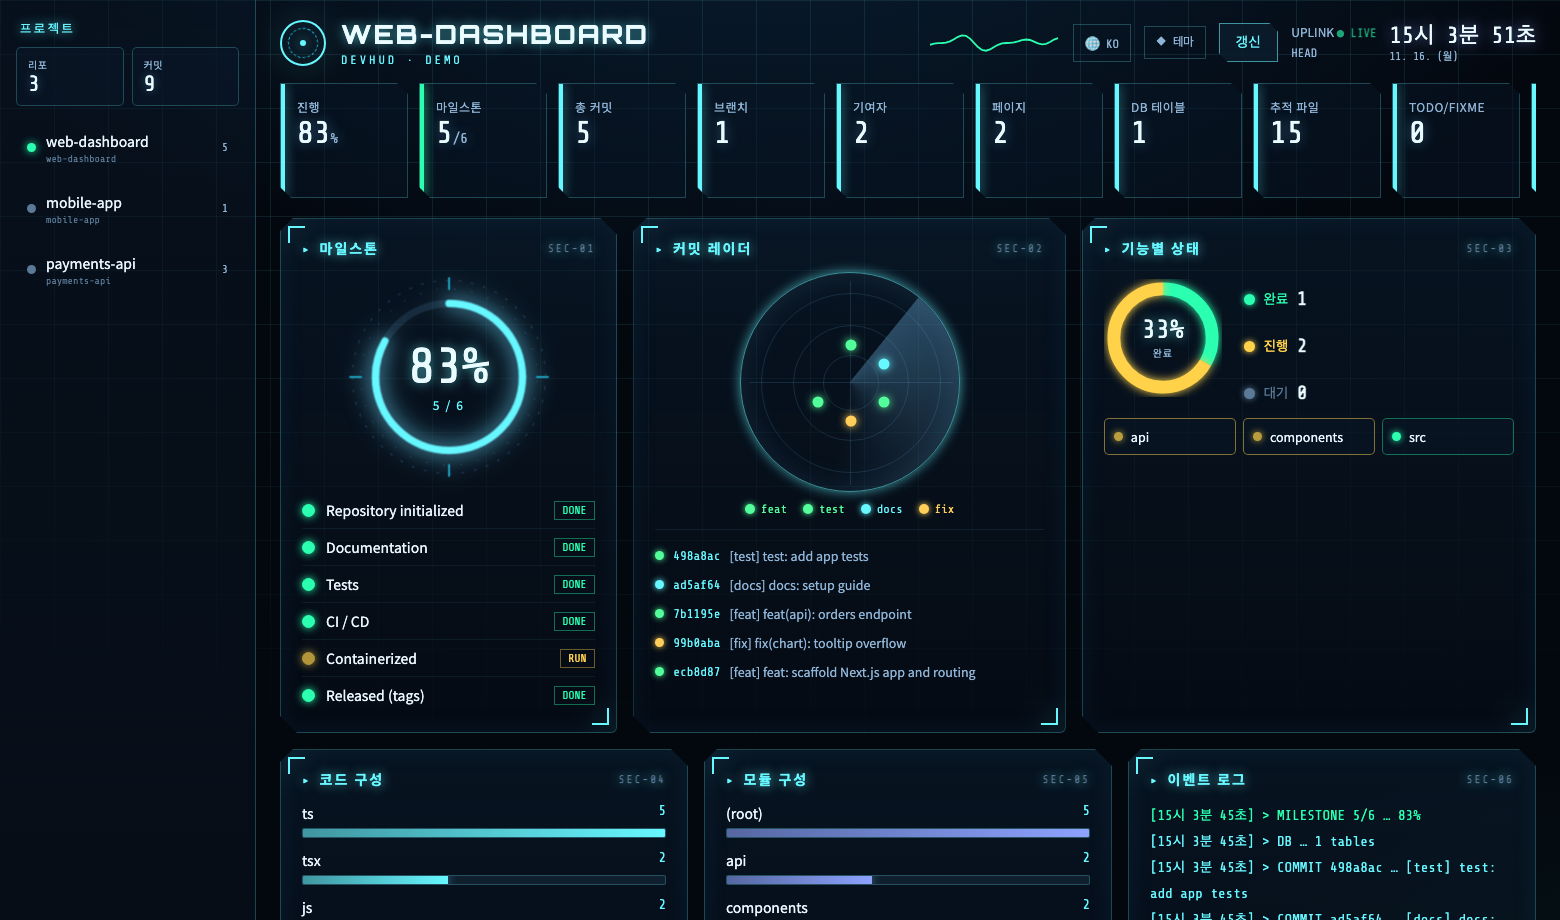
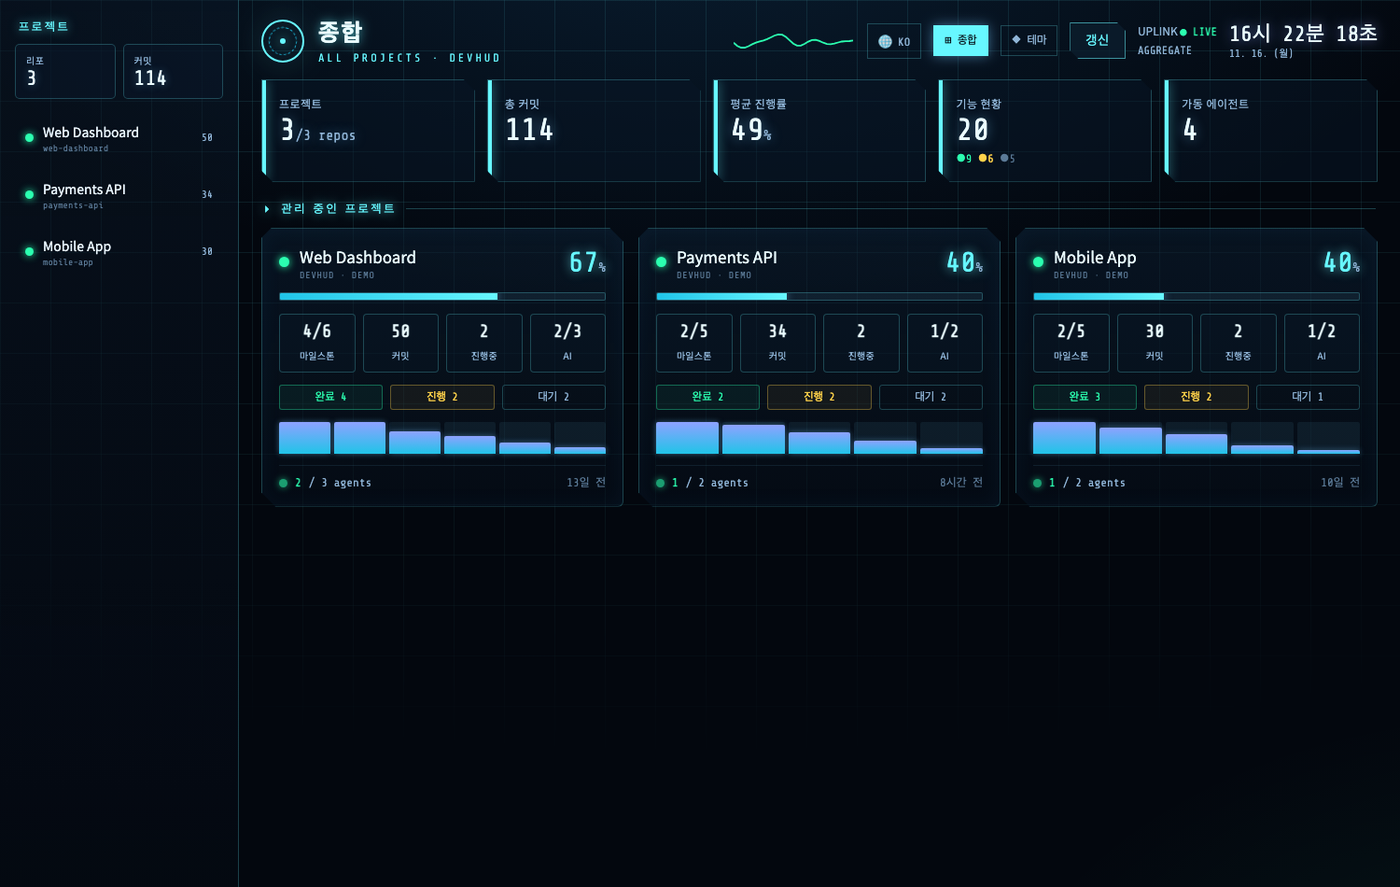
Regenerate demo (Overview + new panels); fix header in overview view
demo.gif/screenshot.png now showcase the aggregate Overview dashboard and
a full single-project tour (incl. UI·Screens, Planning·Docs). Fake demo
data only. Also: keep the aggregate header title in overview mode (don't
let a background single-project refresh overwrite it).

diff --git a/web/index.html b/web/index.html
@@ -236,7 +236,8 @@ let projects=[],curP=null,logTimer=null;
 async function loadProjects(){try{const d=await(await fetch('/api/projects',{cache:'no-store'})).json();projects=d.projects||[];el('totProj').textContent=(d.totals&&d.totals.projects)||projects.length;el('totCommits').textContent=((d.totals&&d.totals.commits)||0).toLocaleString();renderRail();if(projects.length){if(!curP)curP=projects[0].id;load();}}catch(e){el('totProj').textContent='ERR';}}
 function renderRail(){el('projlist').innerHTML=projects.map(p=>`<div class="proj ${p.id===curP?'sel':''}" data-id="${encodeURIComponent(p.id)}"><span class="pdot ${p.configured?'cfg':''}"></span><div class="pmeta"><div class="pn">${p.name}</div><div class="psub">${p.branch||p.id.split('/').slice(-1)[0]}</div></div><span class="pc">${(p.commits||0)}</span></div>`).join('');document.querySelectorAll('.proj').forEach(n=>n.onclick=()=>{curP=decodeURIComponent(n.dataset.id);renderRail();load();});}
 function render(D){
-  lastD=D;setTheme(D.theme);el('pname').textContent=(D.project||'MISSION CONTROL').toUpperCase();el('ptag').textContent=D.tagline||'DEVHUD';el('refline').textContent=D.ref||'HEAD';el('repoline').textContent=(D.repo||'')+' · '+(D.ref||'HEAD')+' · no secrets';
+  lastD=D;setTheme(D.theme);el('repoline').textContent=(D.repo||'')+' · '+(D.ref||'HEAD')+' · no secrets';
+  if(view!=='overview'){el('pname').textContent=(D.project||'MISSION CONTROL').toUpperCase();el('ptag').textContent=D.tagline||'DEVHUD';el('refline').textContent=D.ref||'HEAD';}
   const P=D.panels||{};document.querySelectorAll('[data-panel]').forEach(n=>{n.style.display=(P[n.dataset.panel]===false)?'none':'';});
   const done=D.done,total=D.total,pct=total?Math.round(done/total*100):0;
   const kp=[{k:'Progress',v:total?pct+'<small>%</small>':'—',c:''},{k:'Milestones',v:total?done+'<small>/'+total+'</small>':'—',c:'ok'}].concat((D.gh||[]).map(g=>({k:g[0],v:g[1],c:''})));
@@ -274,7 +275,7 @@ function render(D){
   el('branches').innerHTML=(D.branches||[]).map((b,i)=>`<div class="brow ${i===0?'cur':''}"><span class="bn">${b.n}</span><span class="ba">${b.ago}</span></div>`).join('');
   el('recs').innerHTML=(D.recs||[]).map(r=>`<div class="rec"><div><div class="rt">${r.t}</div><div class="pr">${r.p||''}</div></div></div>`).join('')||'<div style="color:var(--mut);font-size:14px">—</div>';
   el('feed').innerHTML=(D.commits||[]).map(c=>`<div class="cm"><span class="sha">${c.sha}</span><span class="ago">${c.ago}</span><span class="msg">${(c.msg||'').replace(/</g,'&lt;')}</span></div>`).join('');
-  el('asof').textContent='DATA AS OF '+D.asOf;el('gm').textContent=total?done+' / '+total:'N/A';
+  if(view!=='overview')el('asof').textContent='DATA AS OF '+D.asOf;el('gm').textContent=total?done+' / '+total:'N/A';
   const rd=el('radar');rd.querySelectorAll('.ring,.cross,.blip').forEach(n=>n.remove());
   [56,116,180].forEach(s=>{const r=document.createElement('div');r.className='ring';r.style.cssText=`left:${(220-s)/2}px;top:${(220-s)/2}px;width:${s}px;height:${s}px`;rd.appendChild(r);});
   const cv=document.createElement('div');cv.className='cross';cv.style.cssText='left:109px;top:8px;width:1px;height:204px';rd.appendChild(cv);
